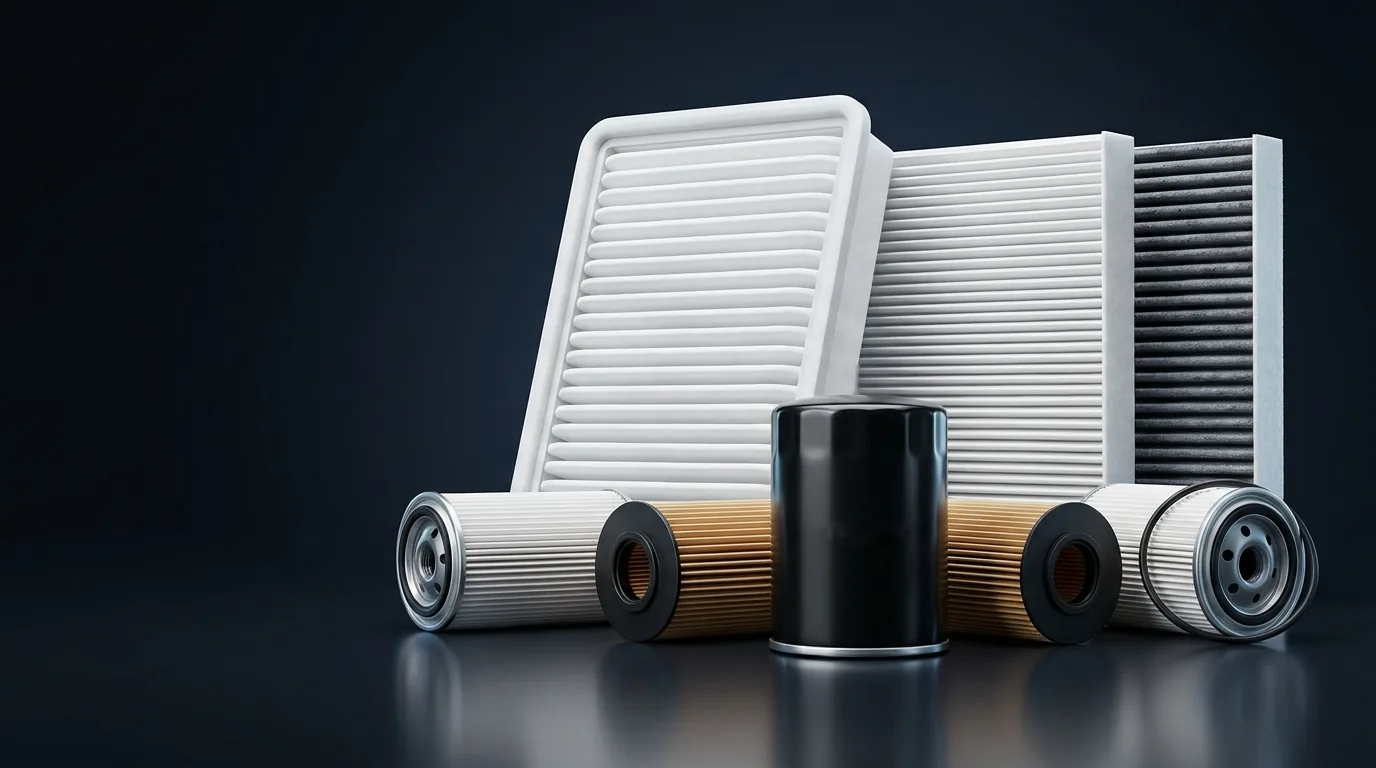
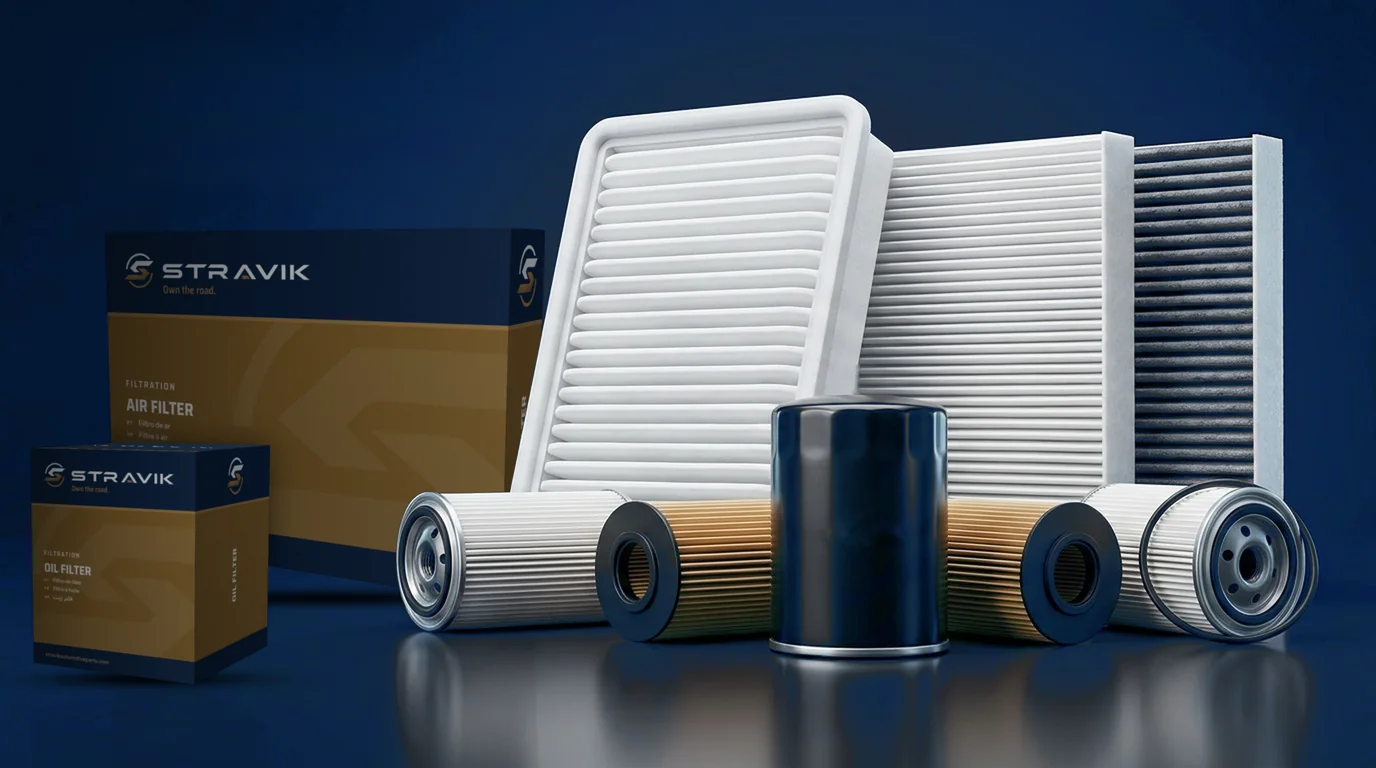
Filters page: new hero photo (filters with their Stravik boxes)
The logo, tagline and FILTRATION text baked into the top-left of the
artwork are taken out, since the page's own hero copy says that. A 2x
version is added for sharp screens.

Claude-Session: https://claude.ai/code/session_01K6GgsC2ob2egdLcd9WnDNS

diff --git a/assets/fcat.js b/assets/fcat.js
@@ -30,7 +30,7 @@ const TPL=`<div class="fwrap"><header class="top">
       <div class="stats"><div><b id="st-n">1,092</b><span>Filters</span></div><div><b id="st-m">194</b><span>Vehicle makes</span></div><div><b id="st-x">6,333</b><span>Cross-references</span></div></div>
       <div class="hero-cta"><button class="primary" id="cta-type">Browse filters</button><button class="ghost" id="cta-veh">Find by vehicle</button></div>
     </div></div>
-    <div class="hero-media"><img src="/assets/img/filters/hero.webp" alt="Stravik air, cabin, oil and fuel filters" width="1376" height="768"></div>
+    <div class="hero-media"><img src="/assets/img/filters/hero.webp" srcset="/assets/img/filters/hero.webp 1376w, /assets/img/filters/hero@2x.webp 2752w" sizes="(max-width: 860px) 100vw, 60vw" alt="Stravik air, cabin, oil and fuel filters with their Stravik boxes" width="1376" height="768"></div>
   </div>
 </section>
 <div class="fmain wrap">
